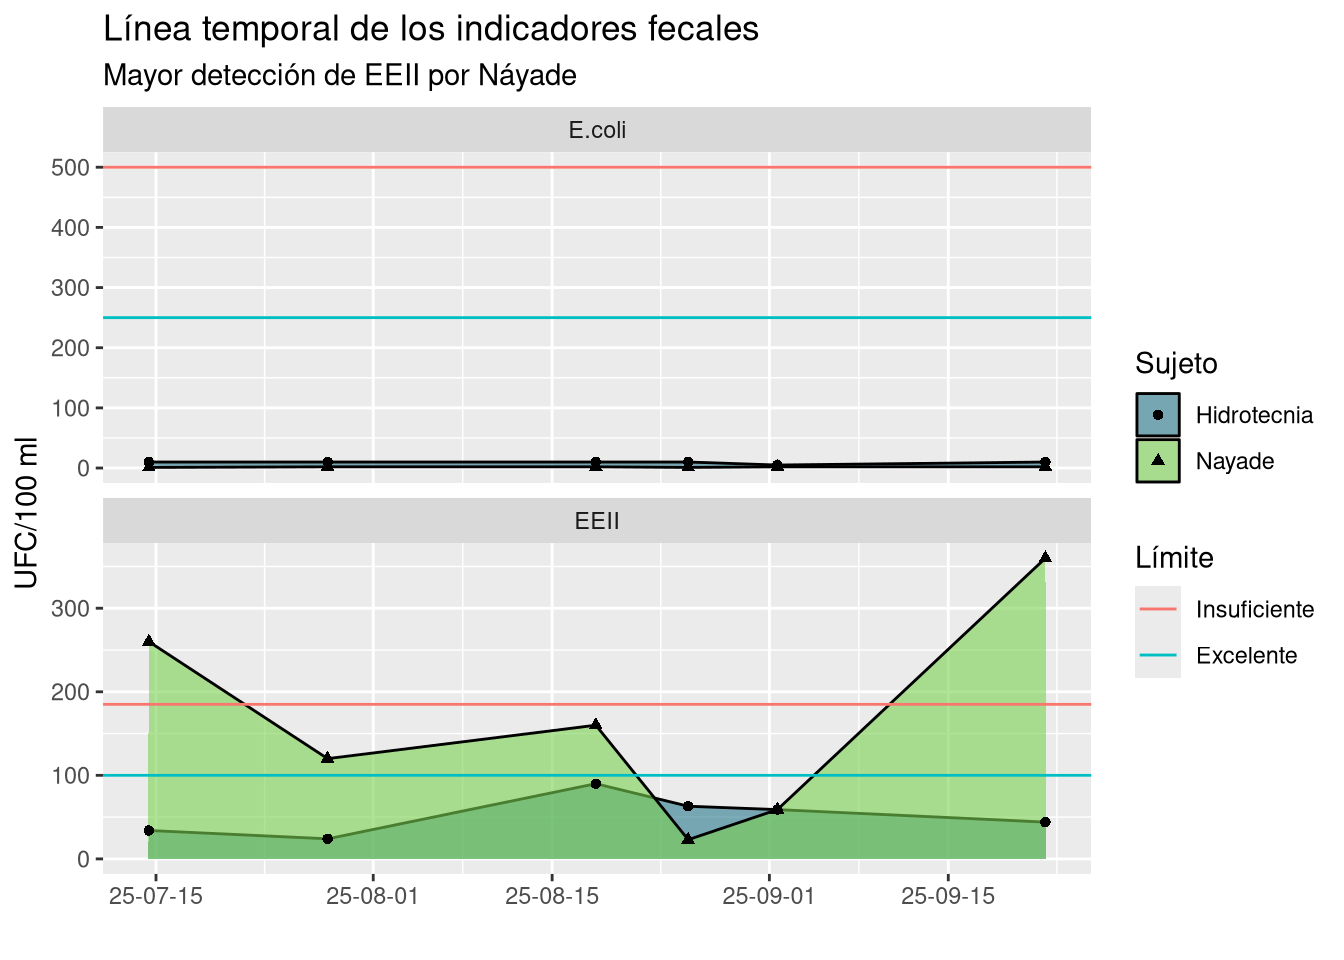
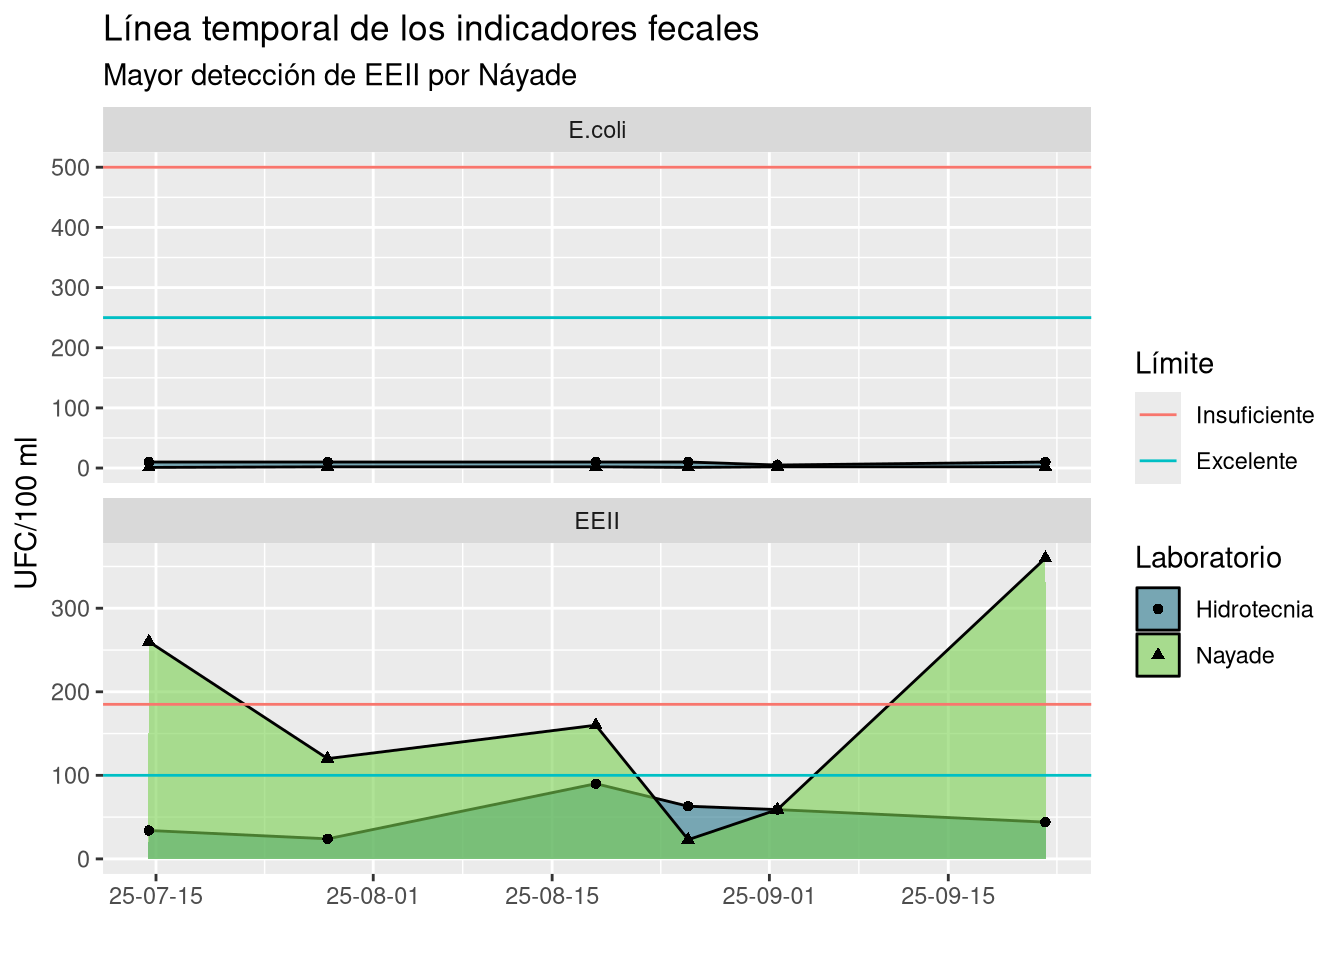
Reorganizado indicadores.qmd
Apurado estilo general de la web.

Changed region(s): [[0.8438, 0.5625, 0.9688, 0.7188], [0.8438, 0.3438, 0.9688, 0.5312]]

diff --git a/docs/indicadores.html b/docs/indicadores.html
@@ -8,7 +8,7 @@
 
 <meta name="author" content="Vera Gómez-Limón Gallardo">
 
-<title>Biondicadores convencionales – Calidad del agua en El Confital</title>
+<title>Biondicadores convencionales – 🪸 Calidad del agua en El Confital</title>
 <style>
 code{white-space: pre-wrap;}
 span.smallcaps{font-variant: small-caps;}
@@ -102,7 +102,7 @@ div.csl-indent {
       <div class="navbar-container container-fluid">
       <div class="navbar-brand-container mx-auto">
     <a class="navbar-brand" href="./index.html">
-    <span class="navbar-title">Calidad del agua en El Confital</span>
+    <span class="navbar-title">🪸 Calidad del agua en El Confital</span>
     </a>
   </div>
             <div id="quarto-search" class="" title="Buscar"></div>
@@ -140,7 +140,7 @@ div.csl-indent {
   </li>
   <li class="nav-item">
     <a class="nav-link" href="./about.html"> 
-<span class="menu-text">Sobre este sitio web</span></a>
+<span class="menu-text">Sobre esta web</span></a>
   </li>  
 </ul>
             <ul class="navbar-nav navbar-nav-scroll ms-auto">
@@ -200,8 +200,8 @@ div.csl-indent {
    
   <ul>
   <li><a href="#vista-general" id="toc-vista-general" class="nav-link active" data-scroll-target="#vista-general">Vista general</a></li>
-  <li><a href="#sujeto-muestreador" id="toc-sujeto-muestreador" class="nav-link" data-scroll-target="#sujeto-muestreador">Sujeto muestreador</a></li>
-  <li><a href="#ciclo-de-mareas" id="toc-ciclo-de-mareas" class="nav-link" data-scroll-target="#ciclo-de-mareas">Ciclo de mareas</a></li>
+  <li><a href="#comparación-entre-laboratorios" id="toc-comparación-entre-laboratorios" class="nav-link" data-scroll-target="#comparación-entre-laboratorios">Comparación entre laboratorios</a></li>
+  <li><a href="#afectación-del-ciclo-de-mareas" id="toc-afectación-del-ciclo-de-mareas" class="nav-link" data-scroll-target="#afectación-del-ciclo-de-mareas">Afectación del ciclo de mareas</a></li>
   </ul>
 </nav>
     </div>
@@ -237,7 +237,7 @@ div.csl-indent {
 <section id="vista-general" class="level2">
 <h2 class="anchored" data-anchor-id="vista-general">Vista general</h2>
 <p>Los episodios periódicos de contaminación fecal en la playa de El Confital se monitorearon durante el verano 2025. La bacteria <em>E.coli</em> se detectó en todas las muestras dentro de los valores de calidad excelente del agua establecidos por la normativa<span class="citation" data-cites="boe2007"><sup><a href="#ref-boe2007" role="doc-biblioref">1</a></sup></span>.</p>
-<p>El Ministerio de Sanidad (Náyade) y AT Hidrotecnia SL (Hidrotecnia) son los dos sujetos responsables de monitorear los indicadores de contaminación fecal. Atendiendo a la distribución de resultados obtenidos (<a href="#fig-general" class="quarto-xref">Figura&nbsp;1</a>), observamos una mayor dispersión según Náyade que respecto de Hidrotecnia. Además, únicamente los valores de Náyade superaron en 2 ocasiones el umbral de calidad de agua insuficiente para EEII.</p>
+<p>El Ministerio de Sanidad (Náyade) y AT Hidrotecnia SL (Hidrotecnia) son los dos laboratorios responsables de monitorear los indicadores de contaminación fecal. Atendiendo a la distribución de resultados obtenidos (<a href="#fig-general" class="quarto-xref">Figura&nbsp;1</a>), observamos una mayor dispersión según Náyade que respecto de Hidrotecnia. Además, únicamente los valores de Náyade superaron en 2 ocasiones el umbral de calidad de agua insuficiente para EEII.</p>
 <p>La problemática reside en los repuntes de EEII, siendo los meses de julio y septiembre 2025 donde se dieron los episodios de calidad insuficiente del agua.</p>
 <div class="cell">
 <div class="cell-output-display">
@@ -254,31 +254,31 @@ Figura&nbsp;1
 </div>
 </div>
 </section>
-<section id="sujeto-muestreador" class="level2">
-<h2 class="anchored" data-anchor-id="sujeto-muestreador">Sujeto muestreador</h2>
+<section id="comparación-entre-laboratorios" class="level2">
+<h2 class="anchored" data-anchor-id="comparación-entre-laboratorios">Comparación entre laboratorios</h2>
 <div class="cell">
 <div class="cell-output-display">
-<div id="fig-sujeto" class="quarto-float quarto-figure quarto-figure-center anchored" width="672">
+<div id="fig-laboratorio" class="quarto-float quarto-figure quarto-figure-center anchored" width="672">
 <figure class="quarto-float quarto-float-fig figure">
-<div aria-describedby="fig-sujeto-caption-0ceaefa1-69ba-4598-a22c-09a6ac19f8ca">
-<img src="indicadores_files/figure-html/fig-sujeto-1.png" id="fig-sujeto" class="img-fluid figure-img" width="672">
+<div aria-describedby="fig-laboratorio-caption-0ceaefa1-69ba-4598-a22c-09a6ac19f8ca">
+<img src="indicadores_files/figure-html/fig-laboratorio-1.png" id="fig-laboratorio" class="img-fluid figure-img" width="672">
 </div>
-<figcaption class="quarto-float-caption-bottom quarto-float-caption quarto-float-fig quarto-uncaptioned" id="fig-sujeto-caption-0ceaefa1-69ba-4598-a22c-09a6ac19f8ca">
+<figcaption class="quarto-float-caption-bottom quarto-float-caption quarto-float-fig quarto-uncaptioned" id="fig-laboratorio-caption-0ceaefa1-69ba-4598-a22c-09a6ac19f8ca">
 Figura&nbsp;2
 </figcaption>
 </figure>
 </div>
 </div>
 </div>
-<p>Para estimar estadísticamente si existen diferencias significativas entre los resultados obtenidos por ambos sujetos, utilizamos la prueba de la <em>t</em> de <em>Student</em> para los valores emparejados por la misma muestra de agua. En la <a href="#fig-t-eeii-sujeto" class="quarto-xref">Figura&nbsp;3</a> se observa como la diferencia de EEII entre Náyade e Hidrotecnia no es significativa con los datos disponibles. <strong>Probablemente la mayor detección de Náyade se deba al azar</strong> (<em>p</em> valor &gt; 0,05).</p>
+<p>Para estimar estadísticamente si existen diferencias significativas entre los resultados obtenidos por ambos laboratorios, utilizamos la prueba de la <em>t</em> de <em>Student</em> para los valores emparejados por la misma muestra de agua. En la <a href="#fig-t-eeii-laboratorio" class="quarto-xref">Figura&nbsp;3</a> se observa como la diferencia de EEII entre Náyade e Hidrotecnia no es significativa con los datos disponibles. <strong>Probablemente la mayor detección de Náyade se deba al azar</strong> (<em>p</em> valor &gt; 0,05).</p>
 <div class="cell">
 <div class="cell-output-display">
-<div id="fig-t-eeii-sujeto" class="quarto-float quarto-figure quarto-figure-center anchored" width="672">
+<div id="fig-t-eeii-laboratorio" class="quarto-float quarto-figure quarto-figure-center anchored" width="672">
 <figure class="quarto-float quarto-float-fig figure">
-<div aria-describedby="fig-t-eeii-sujeto-caption-0ceaefa1-69ba-4598-a22c-09a6ac19f8ca">
-<img src="indicadores_files/figure-html/fig-t-eeii-sujeto-1.png" id="fig-t-eeii-sujeto" class="img-fluid figure-img" width="672">
+<div aria-describedby="fig-t-eeii-laboratorio-caption-0ceaefa1-69ba-4598-a22c-09a6ac19f8ca">
+<img src="indicadores_files/figure-html/fig-t-eeii-laboratorio-1.png" id="fig-t-eeii-laboratorio" class="img-fluid figure-img" width="672">
 </div>
-<figcaption class="quarto-float-caption-bottom quarto-float-caption quarto-float-fig quarto-uncaptioned" id="fig-t-eeii-sujeto-caption-0ceaefa1-69ba-4598-a22c-09a6ac19f8ca">
+<figcaption class="quarto-float-caption-bottom quarto-float-caption quarto-float-fig quarto-uncaptioned" id="fig-t-eeii-laboratorio-caption-0ceaefa1-69ba-4598-a22c-09a6ac19f8ca">
 Figura&nbsp;3
 </figcaption>
 </figure>
@@ -286,8 +286,8 @@ Figura&nbsp;3
 </div>
 </div>
 </section>
-<section id="ciclo-de-mareas" class="level2">
-<h2 class="anchored" data-anchor-id="ciclo-de-mareas">Ciclo de mareas</h2>
+<section id="afectación-del-ciclo-de-mareas" class="level2">
+<h2 class="anchored" data-anchor-id="afectación-del-ciclo-de-mareas">Afectación del ciclo de mareas</h2>
 <div class="cell">
 <div class="cell-output-display">
 <div id="fig-mareas" class="quarto-float quarto-figure quarto-figure-center anchored" width="672">

diff --git a/docs/about.html b/docs/about.html
@@ -7,7 +7,7 @@
 <meta name="viewport" content="width=device-width, initial-scale=1.0, user-scalable=yes">
 
 
-<title>Sobre este sitio web – Calidad del agua en El Confital</title>
+<title>Sobre esta web – 🪸 Calidad del agua en El Confital</title>
 <style>
 code{white-space: pre-wrap;}
 span.smallcaps{font-variant: small-caps;}
@@ -80,7 +80,7 @@ ul.task-list li input[type="checkbox"] {
       <div class="navbar-container container-fluid">
       <div class="navbar-brand-container mx-auto">
     <a class="navbar-brand" href="./index.html">
-    <span class="navbar-title">Calidad del agua en El Confital</span>
+    <span class="navbar-title">🪸 Calidad del agua en El Confital</span>
     </a>
   </div>
             <div id="quarto-search" class="" title="Buscar"></div>
@@ -118,7 +118,7 @@ ul.task-list li input[type="checkbox"] {
   </li>
   <li class="nav-item">
     <a class="nav-link active" href="./about.html" aria-current="page"> 
-<span class="menu-text">Sobre este sitio web</span></a>
+<span class="menu-text">Sobre esta web</span></a>
   </li>  
 </ul>
             <ul class="navbar-nav navbar-nav-scroll ms-auto">
@@ -144,13 +144,13 @@ ul.task-list li input[type="checkbox"] {
   round " style="height: 15em; width: 15em;">
  <header id="title-block-header" class="quarto-title-block default">
 <div class="quarto-title">
-<h1 class="title">Sobre este sitio web</h1>
+<h1 class="title">Sobre esta web</h1>
 </div>
 <div class="quarto-title-meta">
   </div>
 </header><main class="content" id="quarto-document-content">
-<p>Me llamo Vera, soy científica marina y he creado este sitio web. Me gradué en Las Palmas de Gran Canaria y ahora colaboro desde Barcelona con el Grupo de Oceanografía Biológica y Algología Aplicada (GOBAA, IOCAG). Me apasiona el océano y su relación con las personas.</p>
-<p>Además, apuesto por el código libre en mis proyectos :)</p>
+<p>Me llamo Vera, soy científica marina y creadora de esta web. Me gradué en Las Palmas de Gran Canaria y ahora colaboro desde Barcelona con el Grupo de Oceanografía Biológica y Algología Aplicada (GOBAA, IOCAG). Me apasiona el océano en su diversidad y su relación con las personas.</p>
+<p>Apuesto por el código libre en mis proyectos 🍉</p>
 <section id="financiación" class="level3 unlisted">
 <h3 class="unlisted" data-anchor-id="financiación">Financiación</h3>
 <p>Convenio de colaboración entre el Ayuntamiento y la Universidad de Las Palmas de Gran Canaria 2025.</p>
@@ -159,13 +159,13 @@ ul.task-list li input[type="checkbox"] {
 <h3 class="unlisted" data-anchor-id="cómo-compartir">Cómo compartir</h3>
 <p>El sitio es público bajo licencia Creative Commons BY-NC-SA 4.0. Para más información visita <a href="https://creativecommons.org/licenses/by-nc-sa/4.0/">Creative Commons</a>.</p>
 </section>
-<section id="códgio-fuente" class="level3 unlisted">
-<h3 class="unlisted" data-anchor-id="códgio-fuente">Códgio fuente</h3>
+<section id="código-fuente" class="level3 unlisted">
+<h3 class="unlisted" data-anchor-id="código-fuente">Código fuente</h3>
 <p>El código fuente es público bajo la misma licencia a través de <a href="https://codeberg.org/veraglg/bahiaconfital">Codeberg</a>.</p>
 </section>
 <section id="uso-de-ia-generativa" class="level3 unlisted">
 <h3 class="unlisted" data-anchor-id="uso-de-ia-generativa">Uso de IA generativa</h3>
-<p>No se ha usado inteligencia artificial generativa para la elaboración de este estudio.</p>
+<p>No se ha usado inteligencia artificial generativa para la creación de la web ni en etapas anteriores del proyecto.</p>
 
 
 </section>

diff --git a/docs/index.html b/docs/index.html
@@ -10,7 +10,7 @@
 <meta name="author" content="Markel Gómez Letona">
 <meta name="author" content="Vera Gómez-Limón Gallardo">
 
-<title>La duda sobre la calidad del agua – Calidad del agua en El Confital</title>
+<title>La duda sobre la calidad del agua – 🪸 Calidad del agua en El Confital</title>
 <style>
 code{white-space: pre-wrap;}
 span.smallcaps{font-variant: small-caps;}
@@ -104,7 +104,7 @@ div.csl-indent {
       <div class="navbar-container container-fluid">
       <div class="navbar-brand-container mx-auto">
     <a class="navbar-brand" href="./index.html">
-    <span class="navbar-title">Calidad del agua en El Confital</span>
+    <span class="navbar-title">🪸 Calidad del agua en El Confital</span>
     </a>
   </div>
             <div id="quarto-search" class="" title="Buscar"></div>
@@ -142,7 +142,7 @@ div.csl-indent {
   </li>
   <li class="nav-item">
     <a class="nav-link" href="./about.html"> 
-<span class="menu-text">Sobre este sitio web</span></a>
+<span class="menu-text">Sobre esta web</span></a>
   </li>  
 </ul>
             <ul class="navbar-nav navbar-nav-scroll ms-auto">

diff --git a/docs/metodos.html b/docs/metodos.html
@@ -9,7 +9,7 @@
 <meta name="author" content="Maria Fernanda Montero">
 <meta name="author" content="Markel Gómez Letona">
 
-<title>Materiales y métodos – Calidad del agua en El Confital</title>
+<title>Materiales y métodos – 🪸 Calidad del agua en El Confital</title>
 <style>
 code{white-space: pre-wrap;}
 span.smallcaps{font-variant: small-caps;}
@@ -103,7 +103,7 @@ div.csl-indent {
       <div class="navbar-container container-fluid">
       <div class="navbar-brand-container mx-auto">
     <a class="navbar-brand" href="./index.html">
-    <span class="navbar-title">Calidad del agua en El Confital</span>
+    <span class="navbar-title">🪸 Calidad del agua en El Confital</span>
     </a>
   </div>
             <div id="quarto-search" class="" title="Buscar"></div>
@@ -141,7 +141,7 @@ div.csl-indent {
   </li>
   <li class="nav-item">
     <a class="nav-link" href="./about.html"> 
-<span class="menu-text">Sobre este sitio web</span></a>
+<span class="menu-text">Sobre esta web</span></a>
   </li>  
 </ul>
             <ul class="navbar-nav navbar-nav-scroll ms-auto">

diff --git a/docs/secuenciacion.html b/docs/secuenciacion.html
@@ -8,7 +8,7 @@
 
 <meta name="author" content="Vera Gómez-Limón Gallardo">
 
-<title>Secuenciación del microbioma – Calidad del agua en El Confital</title>
+<title>Secuenciación del microbioma – 🪸 Calidad del agua en El Confital</title>
 <style>
 code{white-space: pre-wrap;}
 span.smallcaps{font-variant: small-caps;}
@@ -102,7 +102,7 @@ div.csl-indent {
       <div class="navbar-container container-fluid">
       <div class="navbar-brand-container mx-auto">
     <a class="navbar-brand" href="./index.html">
-    <span class="navbar-title">Calidad del agua en El Confital</span>
+    <span class="navbar-title">🪸 Calidad del agua en El Confital</span>
     </a>
   </div>
             <div id="quarto-search" class="" title="Buscar"></div>
@@ -140,7 +140,7 @@ div.csl-indent {
   </li>
   <li class="nav-item">
     <a class="nav-link" href="./about.html"> 
-<span class="menu-text">Sobre este sitio web</span></a>
+<span class="menu-text">Sobre esta web</span></a>
   </li>  
 </ul>
             <ul class="navbar-nav navbar-nav-scroll ms-auto">

diff --git a/docs/citometria.html b/docs/citometria.html
@@ -8,7 +8,7 @@
 
 <meta name="author" content="Vera Gómez-Limón Gallardo">
 
-<title>Citometría de flujo – Calidad del agua en El Confital</title>
+<title>Citometría de flujo – 🪸 Calidad del agua en El Confital</title>
 <style>
 code{white-space: pre-wrap;}
 span.smallcaps{font-variant: small-caps;}
@@ -102,7 +102,7 @@ div.csl-indent {
       <div class="navbar-container container-fluid">
       <div class="navbar-brand-container mx-auto">
     <a class="navbar-brand" href="./index.html">
-    <span class="navbar-title">Calidad del agua en El Confital</span>
+    <span class="navbar-title">🪸 Calidad del agua en El Confital</span>
     </a>
   </div>
             <div id="quarto-search" class="" title="Buscar"></div>
@@ -140,7 +140,7 @@ div.csl-indent {
   </li>
   <li class="nav-item">
     <a class="nav-link" href="./about.html"> 
-<span class="menu-text">Sobre este sitio web</span></a>
+<span class="menu-text">Sobre esta web</span></a>
   </li>  
 </ul>
             <ul class="navbar-nav navbar-nav-scroll ms-auto">
